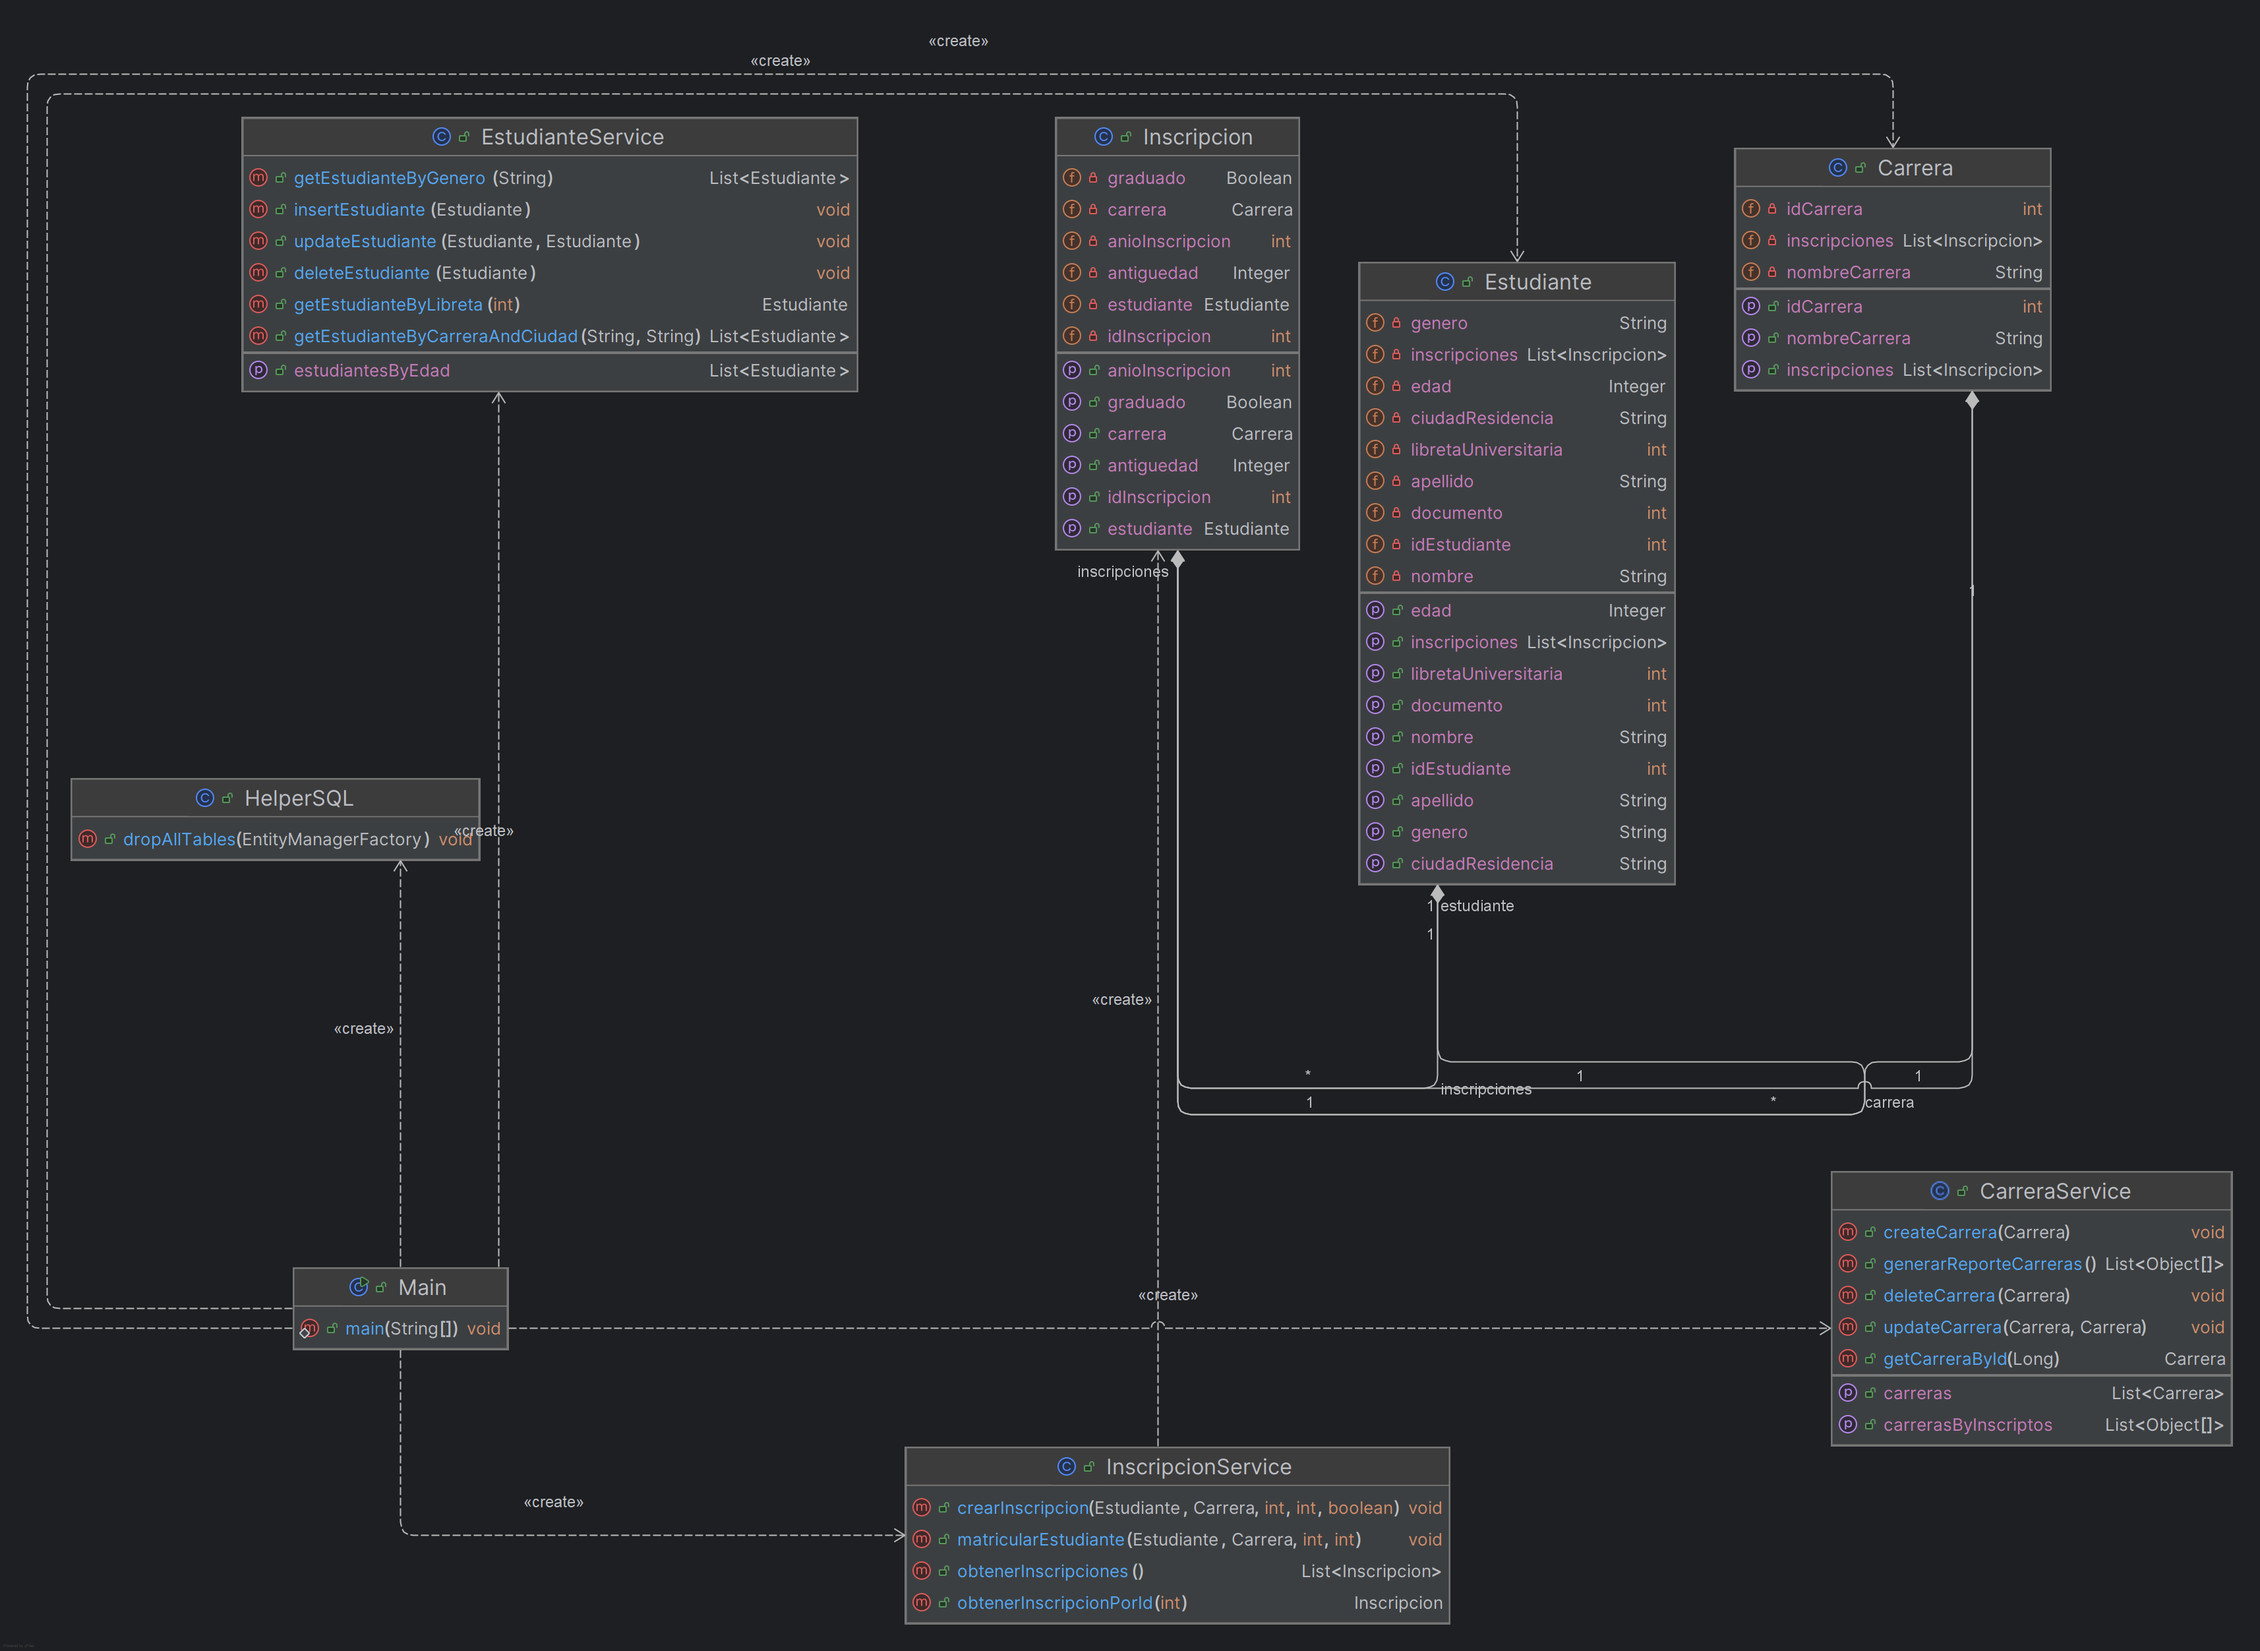
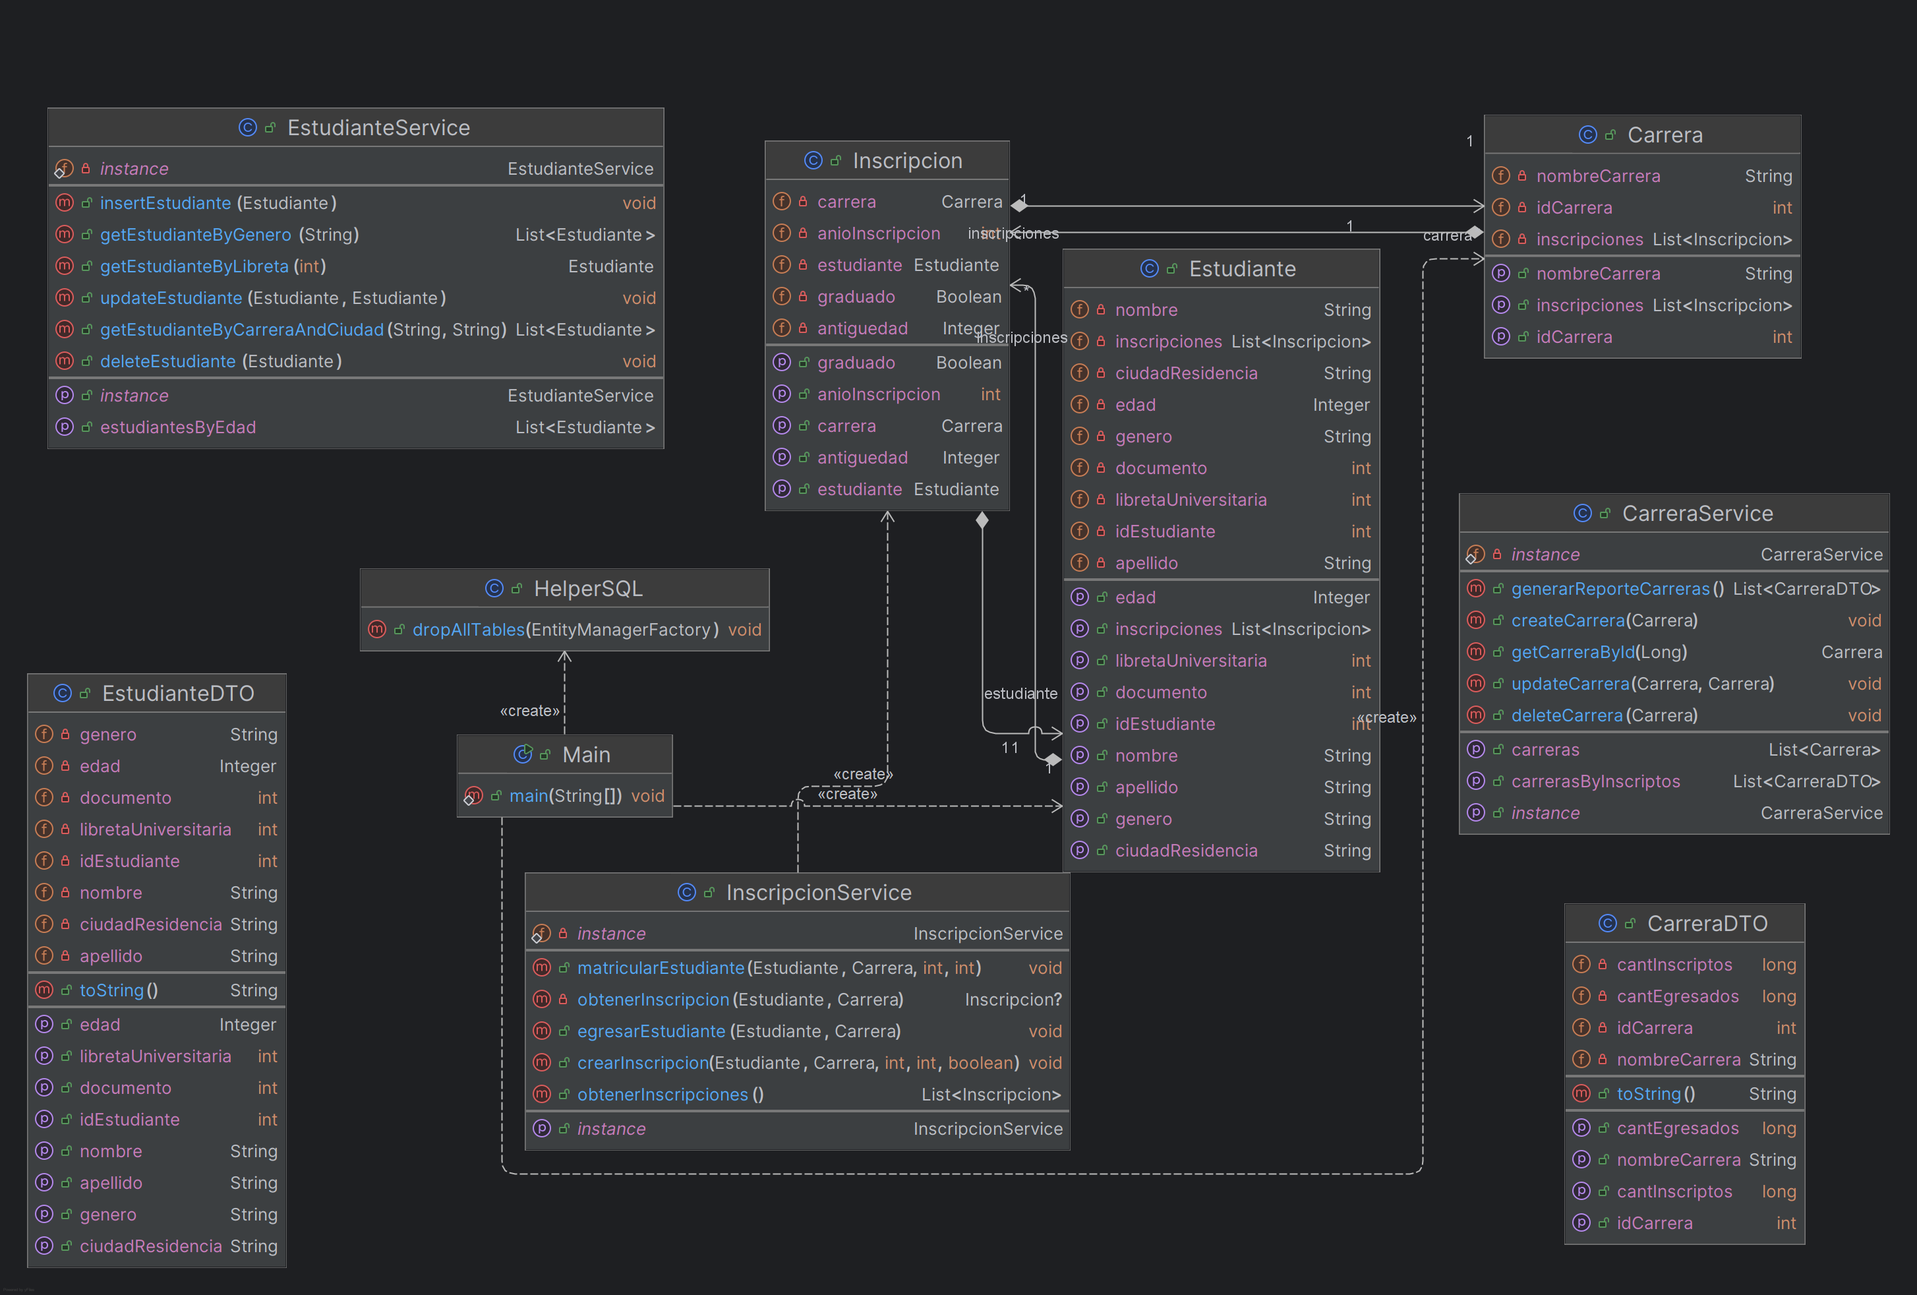
Singleton added and diagrams updated

diff --git a/Integrador-2-arqui/Integrador2/src/main/java/Services/InscripcionService.java b/Integrador-2-arqui/Integrador2/src/main/java/Services/InscripcionService.java
@@ -7,7 +7,20 @@ import java.util.List;
 
 public class InscripcionService {
 
-    private EntityManagerFactory emf = Persistence.createEntityManagerFactory("persistenceIntegrador2");
+    private EntityManagerFactory emf;
+
+    private static InscripcionService instance;
+
+    private InscripcionService() {
+        this.emf = Persistence.createEntityManagerFactory("persistenceIntegrador2");;
+    }
+
+    public static InscripcionService getInstance() {
+        if (instance == null) {
+            instance = new InscripcionService();
+        }
+        return instance;
+    }
 
     public void crearInscripcion(Estudiante estudiante, Carrera carrera, int antiguedad, int anioInscripcion, boolean estadoGraduacion) {
         EntityManager em = emf.createEntityManager();

diff --git a/Integrador-2-arqui/Integrador2/src/main/java/org/example/Main.java b/Integrador-2-arqui/Integrador2/src/main/java/org/example/Main.java
@@ -11,9 +11,9 @@ import java.util.List;
 public class Main {
     public static void main(String[] args) {
         EntityManagerFactory emf = Persistence.createEntityManagerFactory("persistenceIntegrador2");
-        EstudianteService estudianteService = new EstudianteService();
-        CarreraService carreraService = new CarreraService(emf);
-        InscripcionService inscripcionService = new InscripcionService();
+        EstudianteService estudianteService = EstudianteService.getInstance();
+        CarreraService carreraService = CarreraService.getInstance();
+        InscripcionService inscripcionService = InscripcionService.getInstance();
 
         //Creo las carreras
         Carrera carrera = new Carrera();

diff --git a/Integrador-2-arqui/Integrador2/src/main/java/Services/EstudianteService.java b/Integrador-2-arqui/Integrador2/src/main/java/Services/EstudianteService.java
@@ -7,7 +7,20 @@ import java.util.List;
 
 public class EstudianteService {
 
-    private EntityManagerFactory emf = Persistence.createEntityManagerFactory("persistenceIntegrador2");
+    private EntityManagerFactory emf;
+
+    private static EstudianteService instance;
+
+    private EstudianteService() {
+        this.emf = Persistence.createEntityManagerFactory("persistenceIntegrador2");;
+    }
+
+    public static EstudianteService getInstance() {
+        if (instance == null) {
+            instance = new EstudianteService();
+        }
+        return instance;
+    }
 
     public void insertEstudiante(Estudiante estudiante) {
         EntityManager em = emf.createEntityManager();

diff --git a/Integrador-2-arqui/Integrador2/src/main/java/Services/CarreraService.java b/Integrador-2-arqui/Integrador2/src/main/java/Services/CarreraService.java
@@ -6,12 +6,21 @@ import jakarta.persistence.*;
 
 import java.util.List;
 
+
 public class CarreraService {
 
     private EntityManagerFactory emf;
+    private static CarreraService instance;
 
-    public CarreraService(EntityManagerFactory emf) {
-        this.emf = emf;
+    private CarreraService() {
+        this.emf = Persistence.createEntityManagerFactory("persistenceIntegrador2");;
+    }
+
+    public static CarreraService getInstance() {
+        if (instance == null) {
+            instance = new CarreraService();
+        }
+        return instance;
     }
 
     public void createCarrera(Carrera carrera) {
